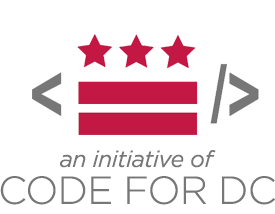
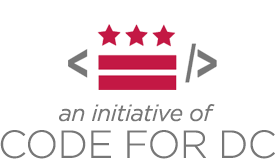
Name change

Changed region(s): [[0.0, 0.1497, 0.96, 0.9581], [0.7855, 0.7784, 1.0, 0.9581], [0.32, 0.9281, 0.4073, 0.9581]]

diff --git a/public/index.html b/public/index.html
@@ -6,7 +6,7 @@
     <head>
         <meta charset="utf-8">
         <meta http-equiv="X-UA-Compatible" content="IE=edge">
-        <title>Student Assignment Unpacked</title>
+        <title>Our DC Schools: Student Assignment Unpacked</title>
         <meta name="description" content="">
         <meta name="viewport" content="width=device-width, initial-scale=1">
 
@@ -26,7 +26,7 @@
     <div id="wrapper">
 
         <header>
-            <h1><img src="img/logo.png" id="logo-img" alt="Student Assignment Unpacked" /></h1>
+            <h1><img src="img/logo.png" id="logo-img" alt="Our DC Schools: Student Assignment Unpacked" /></h1>
             <a href="http://codefordc.org" target="_blank"><img src="img/c4dc.png" id="sponsor-img" alt="An initiative of Code of DC" /></a>
         </header>
 
@@ -67,7 +67,7 @@
 
             <% if (boundaryChanged) { if (oldES === 'CLOSED') { %>
 
-                <p>The school you are currently zoned for, <%= oldBoundary.feature.properties.SCHOOLNAME %> ES, has been closed, and we are missing information about the school to which you are currently assigned. If you can help us fill in gaps, please consider <a href="mailto:chris@ourdcps.org">sending us an email</a>. The proposed school boundaries would assign you to <%= helpers.learndcLink(newES) %>.</p>
+                <p>The school you are currently zoned for, <%= oldBoundary.feature.properties.SCHOOLNAME %> ES, has been closed, and we are missing information about the school to which you are currently assigned. If you can help us fill in gaps, please consider <a href="mailto:chris@ourdcschools.org">sending us an email</a>. The proposed school boundaries would assign you to <%= helpers.learndcLink(newES) %>.</p>
 
                 <% } else { %>
 
@@ -128,7 +128,7 @@
             <% } else { %>
 
             <% if (oldES.old_fp_ms === null || oldES.old_fp_hs === null) { %>
-                <p>We're missing information about your current feeder pattern. If you can help us fill in gaps, please consider <a href="mailto:chris@ourdcps.org">sending us an email</a>.</p>
+                <p>We're missing information about your current feeder pattern. If you can help us fill in gaps, please consider <a href="mailto:chris@ourdcschools.org">sending us an email</a>.</p>
             <% } %>
 
             <% if (boundaryChanged) { %>
@@ -420,7 +420,7 @@
         e=o.createElement(i);r=o.getElementsByTagName(i)[0];
         e.src='//www.google-analytics.com/analytics.js';
         r.parentNode.insertBefore(e,r)}(window,document,'script','ga'));
-        ga('create','UA-48346038-2','ourdcps.org');ga('set','&uid',window.GUID);ga('send','pageview');
+        ga('create','UA-48346038-2','ourdcschools.org');ga('set','&uid',window.GUID);ga('send','pageview');
     </script>
     </body>
 </html>

diff --git a/public/js/main.js b/public/js/main.js
@@ -37,7 +37,7 @@ $(function () {
         $('#address-form').after(alertTemplate({
             id: 'ajax-fail',
             type: 'warning',
-            text: "We ran into an unexpected problem downloading data. Try refreshing the page, or <a href='mailto:chris@ourdcps.org'>send us an email</a> so we can help."
+            text: "We ran into an unexpected problem downloading data. Try refreshing the page, or <a href='mailto:chris@ourdcschools.org'>send us an email</a> so we can help."
         }));
     });
 
@@ -106,7 +106,7 @@ $(function () {
                 $('#address-form').after(alertTemplate({
                     id: 'bad-address',
                     type: 'warning',
-                    text: "We couldn't find a match for your address. Please check that everything is correct, or <a href='mailto:chris@ourdcps.org'>send us an email</a> so we can help."
+                    text: "We couldn't find a match for your address. Please check that everything is correct, or <a href='mailto:chris@ourdcschools.org'>send us an email</a> so we can help."
                 }));
             }
         });
@@ -243,7 +243,7 @@ $(function () {
                 $('#name-form').after(alertTemplate({
                     id: 'submit-success',
                     type: 'success',
-                    text: "Thank you for your feedback. If you have an interest in obtaining the responses and/or raw data, please <a href='mailto:chris@ourdcps.org'>send us an email</a>."
+                    text: "Thank you for your feedback. If you have an interest in obtaining the responses and/or raw data, please <a href='mailto:chris@ourdcschools.org'>send us an email</a>."
                 }));
             }, 800);
         });

diff --git a/public/css/main.css b/public/css/main.css
@@ -140,7 +140,7 @@ section, header, div.alert {
 
 header {
     position: relative;
-    margin: 5% auto;
+    margin: 28px auto 22px auto;
 }
 
 #logo-img {
